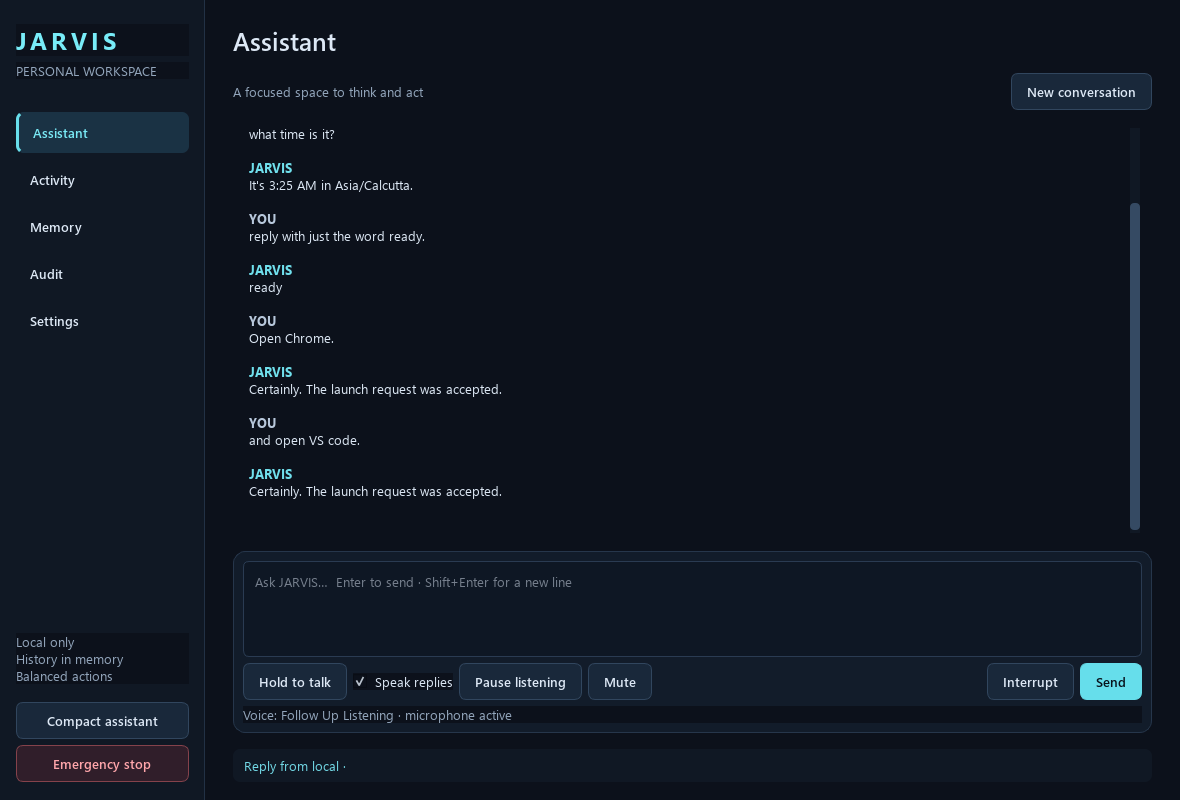
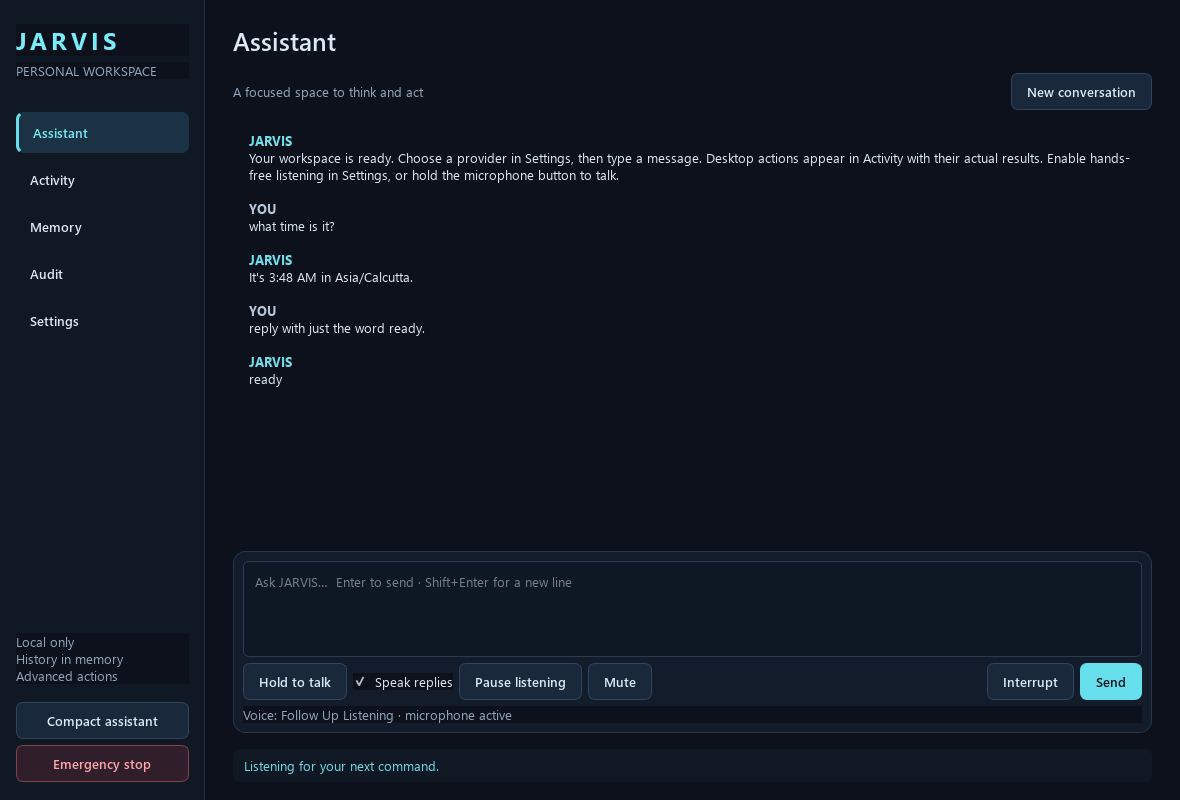
Record packaged and live recognition recovery acceptance

diff --git a/NEXT_STEPS.md b/NEXT_STEPS.md
@@ -2,7 +2,46 @@
 
 Continue this checkout. Read PROJECT_HANDOFF.md and UPDATE_REPAIR.md first.
 
-## Actual build and launch
+## Latest repair: 0.2.1 recognition completion
+
+The user subsequently reported Recognizing speech stuck while Voice remained in
+Wake Word Listening. Reproduced completed wake-miss/empty-result paths failed
+three initial regressions. Version 0.2.1 explicitly completes those paths, shows
+actual pending recognition, clears pause/mute/playback status and preserves
+cancellation and listening boundaries. See RECOGNITION_REPAIR.md.
+
+- Full final suite: **295 passed in 47.93s**, including twelve new regressions;
+  Ruff lint and all 46 format checks passed. Dependency versions are unchanged;
+  only the project package version changed in uv.lock.
+- Tested runtime build: **0.2.1**, commit
+  `d1f0fe0622a4e429749773d09f5d7b13109a5f30`, clean at packaging.
+- Embedded build date: `2026-10-12T22:16:02+00:00`; executable file timestamp
+  `2026-10-12 22:17:21 UTC`, length 14,554,465 bytes. Same launcher/path/data folder.
+- Executable SHA256:
[1 lines of base64/hex data omitted]
+- Final frozen GUI smoke and extended voice diagnostic both exit **0**. Generated
+  unrelated speech completed as ignored and returned to `Listening for "hey jarvis"`
+  with no chat request. The next valid wake/time request, real local AI follow-up,
+  Windows speech, standalone wake, sleep and mute all passed. No microphone was
+  opened by that diagnostic; this is generated-speech integration evidence.
+- All 20 embedded source hashes match the current runtime code. Further commits
+  containing only documents/screenshots do not alter this tested runtime.
+- Runtime repair source was successfully pushed on `feature/handsfree-voice`.
+  User settings/memory/keys were retained. Old 0.2.0 folder is backed up at
+  `transfer/phase2-build-0.2.0`; 0.2.1 was relaunched with the existing saved opt-ins.
+- Current Windows artifact: `transfer/JARVIS-Windows-0.2.1.zip`, 154,414,447 bytes,
+  1,111 verified files, full folder plus INSTALL.txt and BUILD_MANIFEST.json.
[1 lines of base64/hex data omitted]
+  Current source/history archive remains `transfer/PROJECT_JARVIS_HANDOFF.zip`;
+  its MANIFEST and adjacent SHA256 identify the final handoff checkpoint.
+- The user confirmed on the actual microphone that **0.2.1 answers the wake/time
+  request and returns to listening**. This new live acceptance is distinct from
+  the earlier user-confirmed 0.2.0 sequence below. Native inference cannot be forcibly killed;
+  this fix does not silently mark genuinely unfinished transcription as complete.
+
+The following sections retain the **earlier 0.2.0 record**, not the current build.
+
+## Earlier 0.2.0 build and launch
 
 - Branch: `feature/handsfree-voice`.
 - Private repository: https://github.com/roopawalamurtaza-droid/project-jarvis.git.

diff --git a/PROJECT_HANDOFF.md b/PROJECT_HANDOFF.md
@@ -3,6 +3,9 @@
 Prepared 13 October 2026. Continue this repository; do not start a new scaffold.
 Read NEXT_STEPS.md for the final verification/transfer record and UPDATE_REPAIR.md
 for the user's report of an old executable appearing unchanged.
+The subsequent completed-recognition bug and 0.2.1 repair are documented in
+RECOGNITION_REPAIR.md. Use the latest record in NEXT_STEPS.md, not the earlier
+0.2.0 build identity when choosing the executable.
 
 ## Objective and milestone
 
@@ -132,7 +135,7 @@ Native STT cannot safely be killed; bounded shutdown discards late output.
 Tests distinguish fakes, synthetic speech, and real hardware. See TESTING.md,
 docs/SPEECH_QUALITY.md, docs/WAKE_ENGINES.md and final NEXT_STEPS.md.
 
-- Final full suite: 283 passed in 39.96s; final focused health/export checks also
+- Latest full suite: 295 passed in 47.93s; final focused health/export checks also
   passed. Security/path/junction/DPAPI/storage,
   mocked providers/API, offscreen GUI, audio framing/state/permission regressions.
 - Actual local qwen3:8b response through the GUI, same-session follow-up, no Hold
@@ -152,6 +155,13 @@ docs/SPEECH_QUALITY.md, docs/WAKE_ENGINES.md and final NEXT_STEPS.md.
   wake/time reply and completing Chrome/VS Code follow-up and compound sleep.
   This user report is distinct from agent measurements or a recorded acoustic test.
   Further room/noise/device/fresh-machine coverage remains open.
+- The later stuck-recognition report was reproduced as completed wake-miss/empty
+  results retaining the old status. Twelve 0.2.1 regression cases cover recovery,
+  continued valid requests, honest pending work, playback and late cancellation.
+  Native Whisper inference cannot be forcibly terminated; an actual native hang
+  remains a distinct limit. Lifecycle logs omit recognized words/audio.
+  Frozen recovery/voice checks passed, and the user confirmed a live 0.2.1
+  wake/time answer returns to listening on the actual microphone.
 
 ## Dependencies and environment
 

diff --git a/RECOGNITION_REPAIR.md b/RECOGNITION_REPAIR.md
@@ -25,8 +25,17 @@ reset; that was fixed before final testing. The packaged diagnostic now injects
 an unrelated utterance, verifies completion in wake mode with no chat request,
 then exercises a valid wake, local AI, speech, follow-up and sleep.
 
-Final test/build identity, packaging and transfer results are recorded in
-NEXT_STEPS.md. This repair addresses reproduced completed-result handling. It
+Final tests: **295 passed in 47.93s**, Ruff lint and 46 format checks passed.
+Frozen GUI smoke and the extended voice diagnostic both exited 0 against runtime
+commit `d1f0fe0622a4`, version 0.2.1. Unmatched generated speech returned to wake
+listening without a chat request; the next valid wake/local AI/playback turn
+succeeded. The replacement was launched with preserved settings. Build hashes,
+packaging and transfer results are recorded in NEXT_STEPS.md.
+The user subsequently confirmed the actual microphone wake/time request answers
+and returns to listening on 0.2.1. This is user-reported live acceptance, separate
+from generated-speech measurements and the untested broader acoustic conditions.
+
+This repair addresses reproduced completed-result handling. It
 does not claim native Whisper inference can be forcibly interrupted or that
 human wake accuracy under noise/accents is guaranteed. If actual inference hangs,
 use Pause/Resume and retain the privacy-safe lifecycle logs for investigation.

diff --git a/README.md b/README.md
@@ -36,11 +36,13 @@ See [the voice guide](docs/HANDS_FREE.md) for tuning and verification limits.
 Settings shows version, Git commit, build time, executable path, and live startup
 health. Source edits require rebuilding: the launcher runs `dist\JARVIS\JARVIS.exe`.
 
-The repaired 0.2.0 runtime build is commit `6170121a85af`, packaged on
-12 October 2026 at 21:53:26 UTC. Automated tests (283), frozen voice checks and the
-user's live Chrome/VS Code follow-up/sleep demonstration passed. Later handoff
-documentation commits retain the same runtime source hashes. See NEXT_STEPS.md
-for the exact executable identity, artifacts and remaining acceptance boundaries.
+The latest recognition repair is **0.2.1**, runtime source commit `d1f0fe0622a4`.
+Completed wake misses and empty results now return to listening instead of leaving
+Recognizing speech on screen; genuine pending work remains visibly pending.
+All **295 tests passed**. See NEXT_STEPS.md for the verified packaged identity and
+transfer artifacts, and RECOGNITION_REPAIR.md for the reproduced failure and fix.
+The earlier 0.2.0 build passed the user's live Chrome/VS Code follow-up/sleep
+demonstration; that does not erase the subsequently reported recognition bug.
 
 ## What works
 

diff --git a/TESTING.md b/TESTING.md
@@ -55,7 +55,11 @@ tests successfully; these restrictions were not treated as application failures.
 
 ## Real execution evidence
 
-Phase 2 final record: **283 passed**, frozen GUI smoke and complete frozen voice
+Latest 0.2.1 recognition repair: **295 passed in 47.93s**, including twelve
+completed/pending/cancelled-recognition regression cases. The first three cases
+failed before the fix. Final packaged evidence is in NEXT_STEPS.md.
+
+Earlier 0.2.0 record: **283 passed**, frozen GUI smoke and complete frozen voice
 diagnostic both exit 0. The user confirmed an audible live wake/time reply and
 the full Chrome/VS Code follow-up/sleep sequence after enabling Speak replies.
 See NEXT_STEPS.md for exact build identity, timings, packaging fixes and limits.
